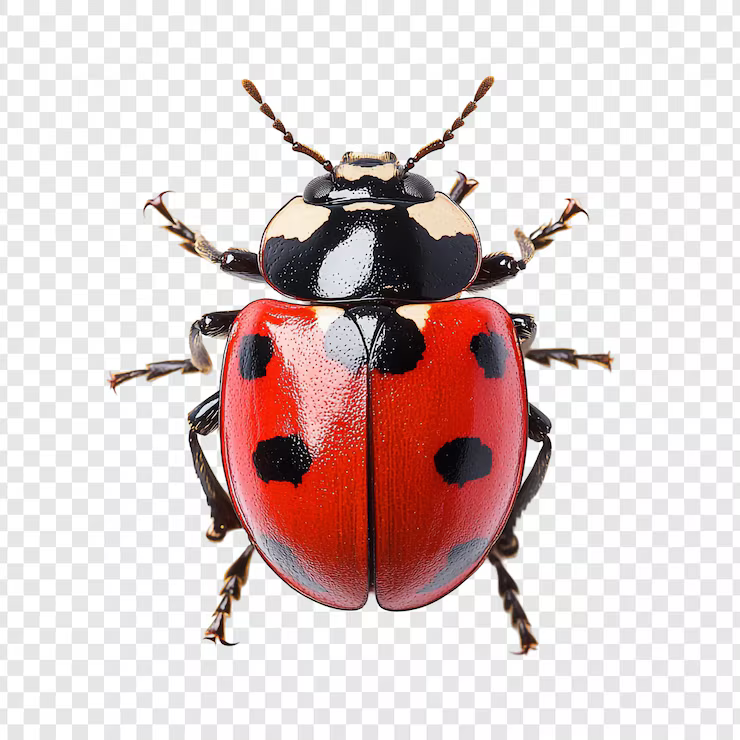
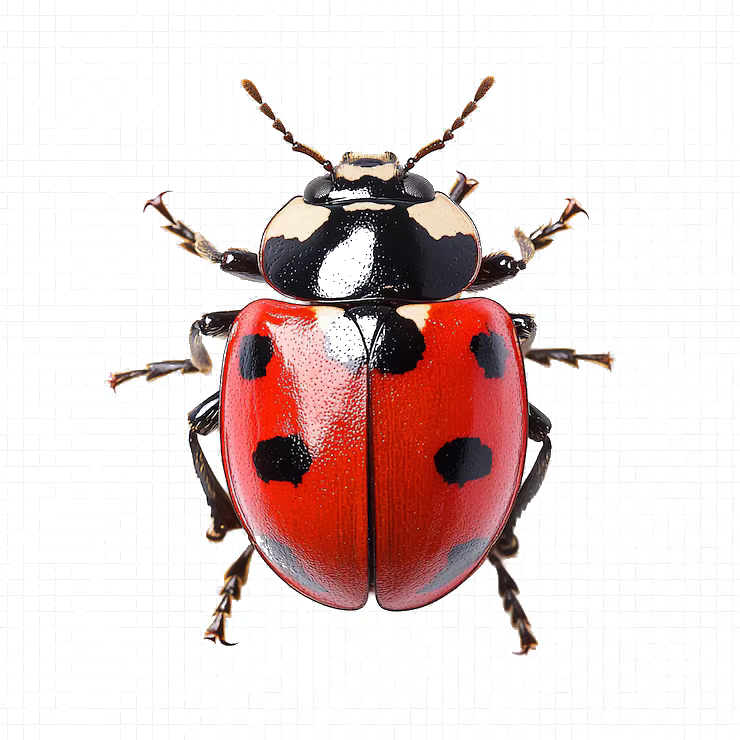
Fix category images and favorites navigation
- Replace wild category image with leopard
- Add white background to insects and wild images
- Fix "Go to search" button in favorites (was causing black screen)
- Now switches to Catalog tab instead of popping

Changed region(s): [[0.0, 0.0, 1.0, 1.0], [0.4041, 0.3108, 0.5284, 0.4973]]

diff --git a/lib/screens/favorites_screen.dart b/lib/screens/favorites_screen.dart
@@ -6,6 +6,7 @@ import '../providers/favorites_provider.dart';
 import '../providers/language_provider.dart';
 import '../theme/app_theme.dart';
 import 'product_detail_screen.dart';
+import 'main_screen.dart';
 
 class FavoritesScreen extends StatelessWidget {
   const FavoritesScreen({super.key});
@@ -64,7 +65,7 @@ class FavoritesScreen extends StatelessWidget {
                   ),
                   const SizedBox(height: 32),
                   ElevatedButton.icon(
-                    onPressed: () => Navigator.pop(context),
+                    onPressed: () => MainScreen.switchToTab(1),
                     icon: const Icon(Icons.search),
                     label: Text(lang.tr('go_to_search')),
                     style: ElevatedButton.styleFrom(

diff --git a/lib/screens/main_screen.dart b/lib/screens/main_screen.dart
@@ -10,12 +10,29 @@ import 'profile_screen.dart';
 
 class MainScreen extends StatefulWidget {
   const MainScreen({super.key});
+
+  static _MainScreenState? _instance;
+
+  static void switchToTab(int index) {
+    _instance?.switchTab(index);
+  }
+
   @override
   State<MainScreen> createState() => _MainScreenState();
 }
 
 class _MainScreenState extends State<MainScreen> {
   int _index = 0;
+
+  @override
+  void initState() {
+    super.initState();
+    MainScreen._instance = this;
+  }
+
+  void switchTab(int index) {
+    setState(() => _index = index);
+  }
   final _screens = const [HomeScreen(), CatalogScreen(), FavoritesScreen(), ProfileScreen()];
 
   @override
